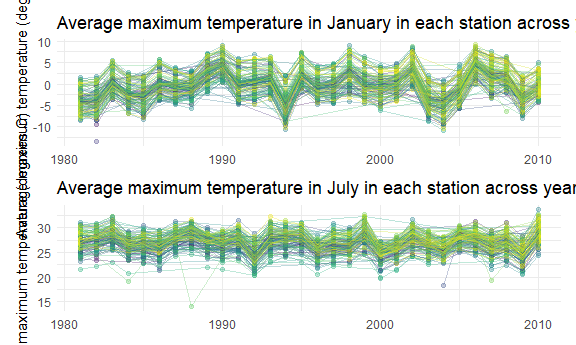
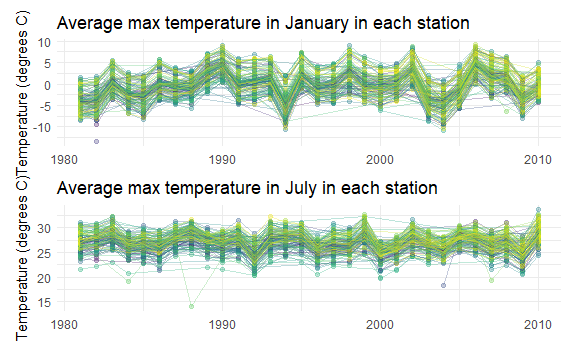
update plots in problem 2 & 3

Changed region(s): [[0.2812, 0.5217, 1.0, 0.5797], [0.0, 0.0, 0.0625, 1.0], [0.2812, 0.029, 1.0, 0.087]]

diff --git a/p8105_hw3_rl3034.md b/p8105_hw3_rl3034.md
@@ -142,9 +142,10 @@ accel_df =
   ) %>%
   mutate(
     minute = as.numeric(minute), 
+    hour = rep(rep(c(rep(0,59),rep(1:23, each = 60),24), 7), 5), 
     day_cat = ifelse(day %in% c("Saturday", "Sunday"), "weekend", "weekday"),
         day = factor(day, levels = c("Monday", "Tuesday", "Wednesday", "Thursday", "Friday", "Saturday", "Sunday"))) %>%
-    relocate(week, day_id, day, day_cat)
+    relocate(day_id, week, day, day_cat, hour)
 ## Parsed with column specification:
 ## cols(
 ##   .default = col_double(),
@@ -153,9 +154,9 @@ accel_df =
 ## See spec(...) for full column specifications.
 ```
 
-This tidied accelerometer dataset contains 50400 observations and 6
-variables. These variables include week, day, minute and activity counts
-for each minute of a 24-hour day starting at midnight.
+This tidied accelerometer dataset contains 50400 observations and 7
+variables. These variables include week, day, hour, minute and activity
+counts for each minute of a 24-hour day starting at midnight.
 
   - The following table shows the total activities for each day. There
     are much fewer activities on the Saturdays of week 4 and 5.
@@ -164,7 +165,7 @@ for each minute of a 24-hour day starting at midnight.
 
 ``` r
 accel_df %>% 
-  group_by(week, day) %>% 
+    group_by(week, day) %>% 
   summarize(activitiy_total = sum(activity)) %>% 
     pivot_wider(
         names_from = "day", 
@@ -185,22 +186,28 @@ accel_df %>%
   - Here is a single-panel plot that shows the 24-hour activity time
     courses for each day, colored by day of the week. Based on this
     graph, it can be seen that Sunday has more activities in the middle
-    of the day; Monday, Wednesday, Friday and Saturday have more
-    activities close to the end of the day; activities are the lowest at
-    the beginning and the end of a day.
+    of the day; Thursday has more activities around 6am. Monday,
+    Wednesday, Friday and Saturday have more activities close to the end
+    of the day; activities are the lowest at the beginning and the end
+    of a day.
 
 <!-- end list -->
 
 ``` r
 accel_df %>% 
-    group_by(day, minute) %>% 
-  ggplot(aes(x = minute, y = activity, color = day)) + 
-    geom_point(alpha = 0.3) + 
-    geom_line(alpha = 0.5) + 
+    group_by(day_id, day, hour) %>% 
+    summarise(activity_hr = sum(activity)) %>% 
+    ggplot(aes(x = hour, y = activity_hr, color = day, group = day_id)) + 
+    stat_smooth(se = FALSE, geom = "line", alpha = 0.8) + 
     labs(
     title = "24-hour activity time courses",
     x = "Minute of a 24-hour day starting at midnight",
-    y = "Activity counts for each minute")
+    y = "Activity counts") + 
+    scale_x_continuous(name = "Time (hour)",
+                     limits = c(0, 24),
+                     breaks = seq(0, 24, 6))
+## `summarise()` regrouping output by 'day_id', 'day' (override with `.groups` argument)
+## `geom_smooth()` using method = 'loess' and formula 'y ~ x'
 ```
 
 <img src="p8105_hw3_rl3034_files/figure-gfm/activity_time_course_plt-1.png" width="90%" />
@@ -288,9 +295,9 @@ avg_tmax_jan_plt =
     geom_point(alpha = 0.3) + 
     geom_line(alpha = 0.3) +
     labs(
-    title = "Average maximum temperature in January in each station across years",
+    title = "Average max temperature in January in each station",
     x = "Year",
-    y = "Average maximum temperature (degrees C)") + 
+    y = "Temperature (degrees C)") + 
     theme(legend.position = 'none',
         axis.title.x = element_blank())
 ## `summarise()` regrouping output by 'id', 'year' (override with `.groups` argument)
@@ -305,9 +312,9 @@ avg_tmax_jul_plt =
     geom_point(alpha = 0.3) + 
     geom_line(alpha = 0.3) +
     labs(
-    title = "Average maximum temperature in July in each station across years",
+    title = "Average max temperature in July in each station",
     x = "Year",
-    y = "Average maximum temperature (degrees C)") + 
+    y = "Temperature (degrees C)") + 
     theme(legend.position = 'none',
         axis.title.x = element_blank())
 ## `summarise()` regrouping output by 'id', 'year' (override with `.groups` argument)
